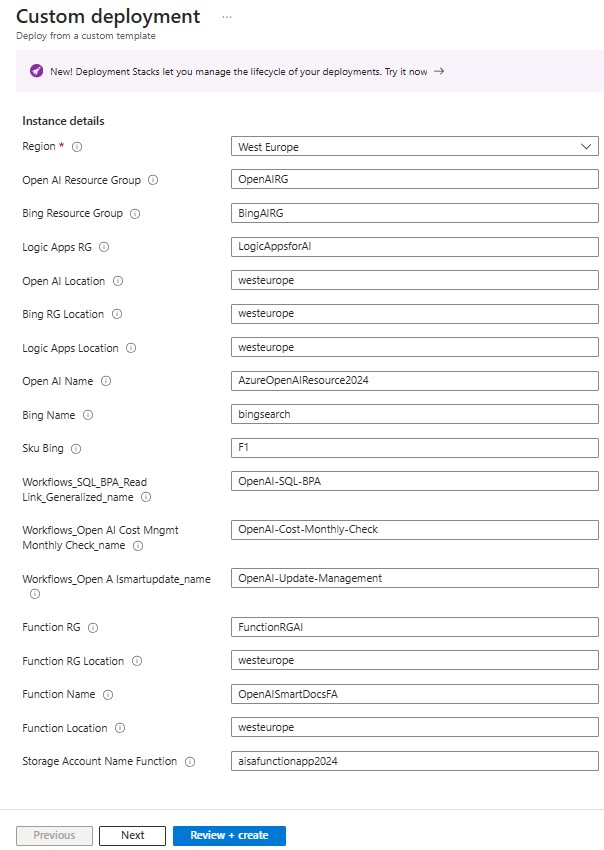
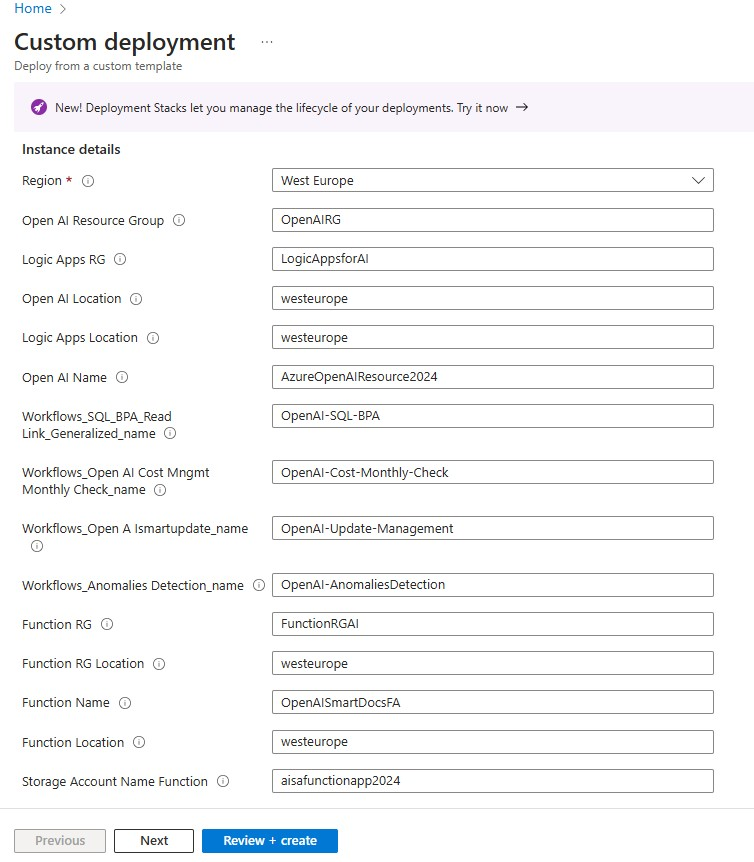
removed old reference

diff --git a/OpenAI-CoreIntegrationLZ/README.md b/OpenAI-CoreIntegrationLZ/README.md
@@ -4,23 +4,19 @@
 | ------------- | ------------- | ------------- |
 | Region | The Default Region used for the deployment | Select the Region  |
 | Open AI Resource Group | Create the Resource Group for OpenAI resource | Replace with RG Name |
-| Bing Resource Group | Create the Resource Group for Bing resource | Replace with RG Name |
 | Logic Apps Resource Group | Create the Resource Group for Logic Apps resource | Replace with RG Name |
 | Open AI Location | Insert the Location for the deployment of Azure OpenAI | Replace with the location |
-| Bing RG Location | Insert the Location for the Resource Group Deployment related Bing | Replace with the location |
 | Logic Apps Location | Insert the Location for the Logic Apps Deployment | Replace with the location |
-| Open AI Name | Insert the name for the Open AI Deployed resource | Replace with the name |
-| Bing Name | Insert the name for the Bing Deployed resource | Replace with the name |
-| Sku Bing | Insert the required sku for the Bing Deployed resource | Replace with the chosed sku |
+| Open AI Name | Insert the name for the Open AI Deployed resource | Replace with the name. Must be Globally unique |
 | LogicApp_SQL_BPA_AI_name | Insert the name for the SQL BPA Logic App Deployed | Replace with the required name |
 | LogicApp_Open AI Cost Monthly Check_name | Insert the name for the Cost Mgmt Logic App Deployed | Replace with the required name |
 | LogicApp_Open AI SmartUpdate | Insert the name for the SmartUpdate Logic App Deployed | Replace with the required name |
 | LogicApp_Open AI AnomaliesDetection | Insert the name for the AnomaliesDetection Logic App Deployed | Replace with the required name |
 | Function RG | Insert the name for the Function App Resource Group | Replace with the required name |
 | Function RG Location | Insert the location for the RG where the Function will be placed | Replace with the location |
-| Function Name | Insert the name Function App Deployed | Replace with the required name |
+| Function Name | Insert the name Function App Deployed | Replace with the required name. Must be Globally unique |
 | Function Location | Insert the location for the Function App Deployed | Replace with the location |
-| Storage Account Name Function | Insert the name for the Storage Account | The Storage Account is a mandatory resource for the Function App |
+| Storage Account Name Function | Insert the name for the Storage Account | The Storage Account is a mandatory resource for the Function App. Name Must be Globally unique |
 
 <h3> Important </h3>
  The following deployment require a dedicated Subscription already in-place. This subscription, following the Enterprise Scale Diagram, must be placed in a identified Management Group

diff --git a/Arc-SQL BPA/README.md b/Arc-SQL BPA/README.md
@@ -7,7 +7,6 @@
 | replacewithRG | Connection setting during deployment | Replace with the selected RG Name for the deployment |
 | replace with tenant id | HTTP Module: Tenant ID | Replace with your Tenant ID |
 | OpenAI API Key | String Resource to connect to OpenAI | Replace with your Azure OpenAI Key |
-| BingSearc API Key | String Resource to connect to BingSearch | Replace with your Azure BingSearch |
 
 
 <h3> Important </h3>
@@ -111,21 +110,12 @@ SqlAssessment_CL
 
 Configure the Api Key with the value inside your OpenAI Service:
 
-![Sentinel Apy Key](./images/ApiKey.jpg)
+![Sentinel Api Key](./images/ApiKey.jpg)
 
 Configure __ForeachSQLResult__ section with value of query result and each parameter in Question variable as you like:
 
 ![SQL BPA question](./images/query-value.jpg)
 ![SQL BPA question](./images/value-question.jpg)
-
-Create and configure BingSearch resource (NOT BingSearch Custom):
-![SQL BPA Bing](./images/BingSearch_Creation.jpg)
-
-Get Bink API Key:
-![SQL BPA Bing](./images/BingKey.jpg)
-
-Set BingSearch API Key in the connector:
-![SQL BPA Bing](./images/BingSearch_Conf.jpg)
 
 Configure the severity level as a condition filter as you prefer:
 

diff --git a/README.md b/README.md
@@ -25,7 +25,7 @@ Explore detailed resources and guides on key Azure technologies and OpenAI Landi
 <h2>Prerequisites</h2>
  
 
- Enable Azure OpenAI service and configure LLM model. Please be aware that some solutions may require some specific Azure OpenAI model.
+ Enable Azure OpenAI service and configure LLM model. Please be aware that some solutions may require some specific Azure OpenAI model. If you choose the Landing Zone Deployment that resource will be created automatically.
 
 ![OpenAI Prereq](./Prereq.png )
 
